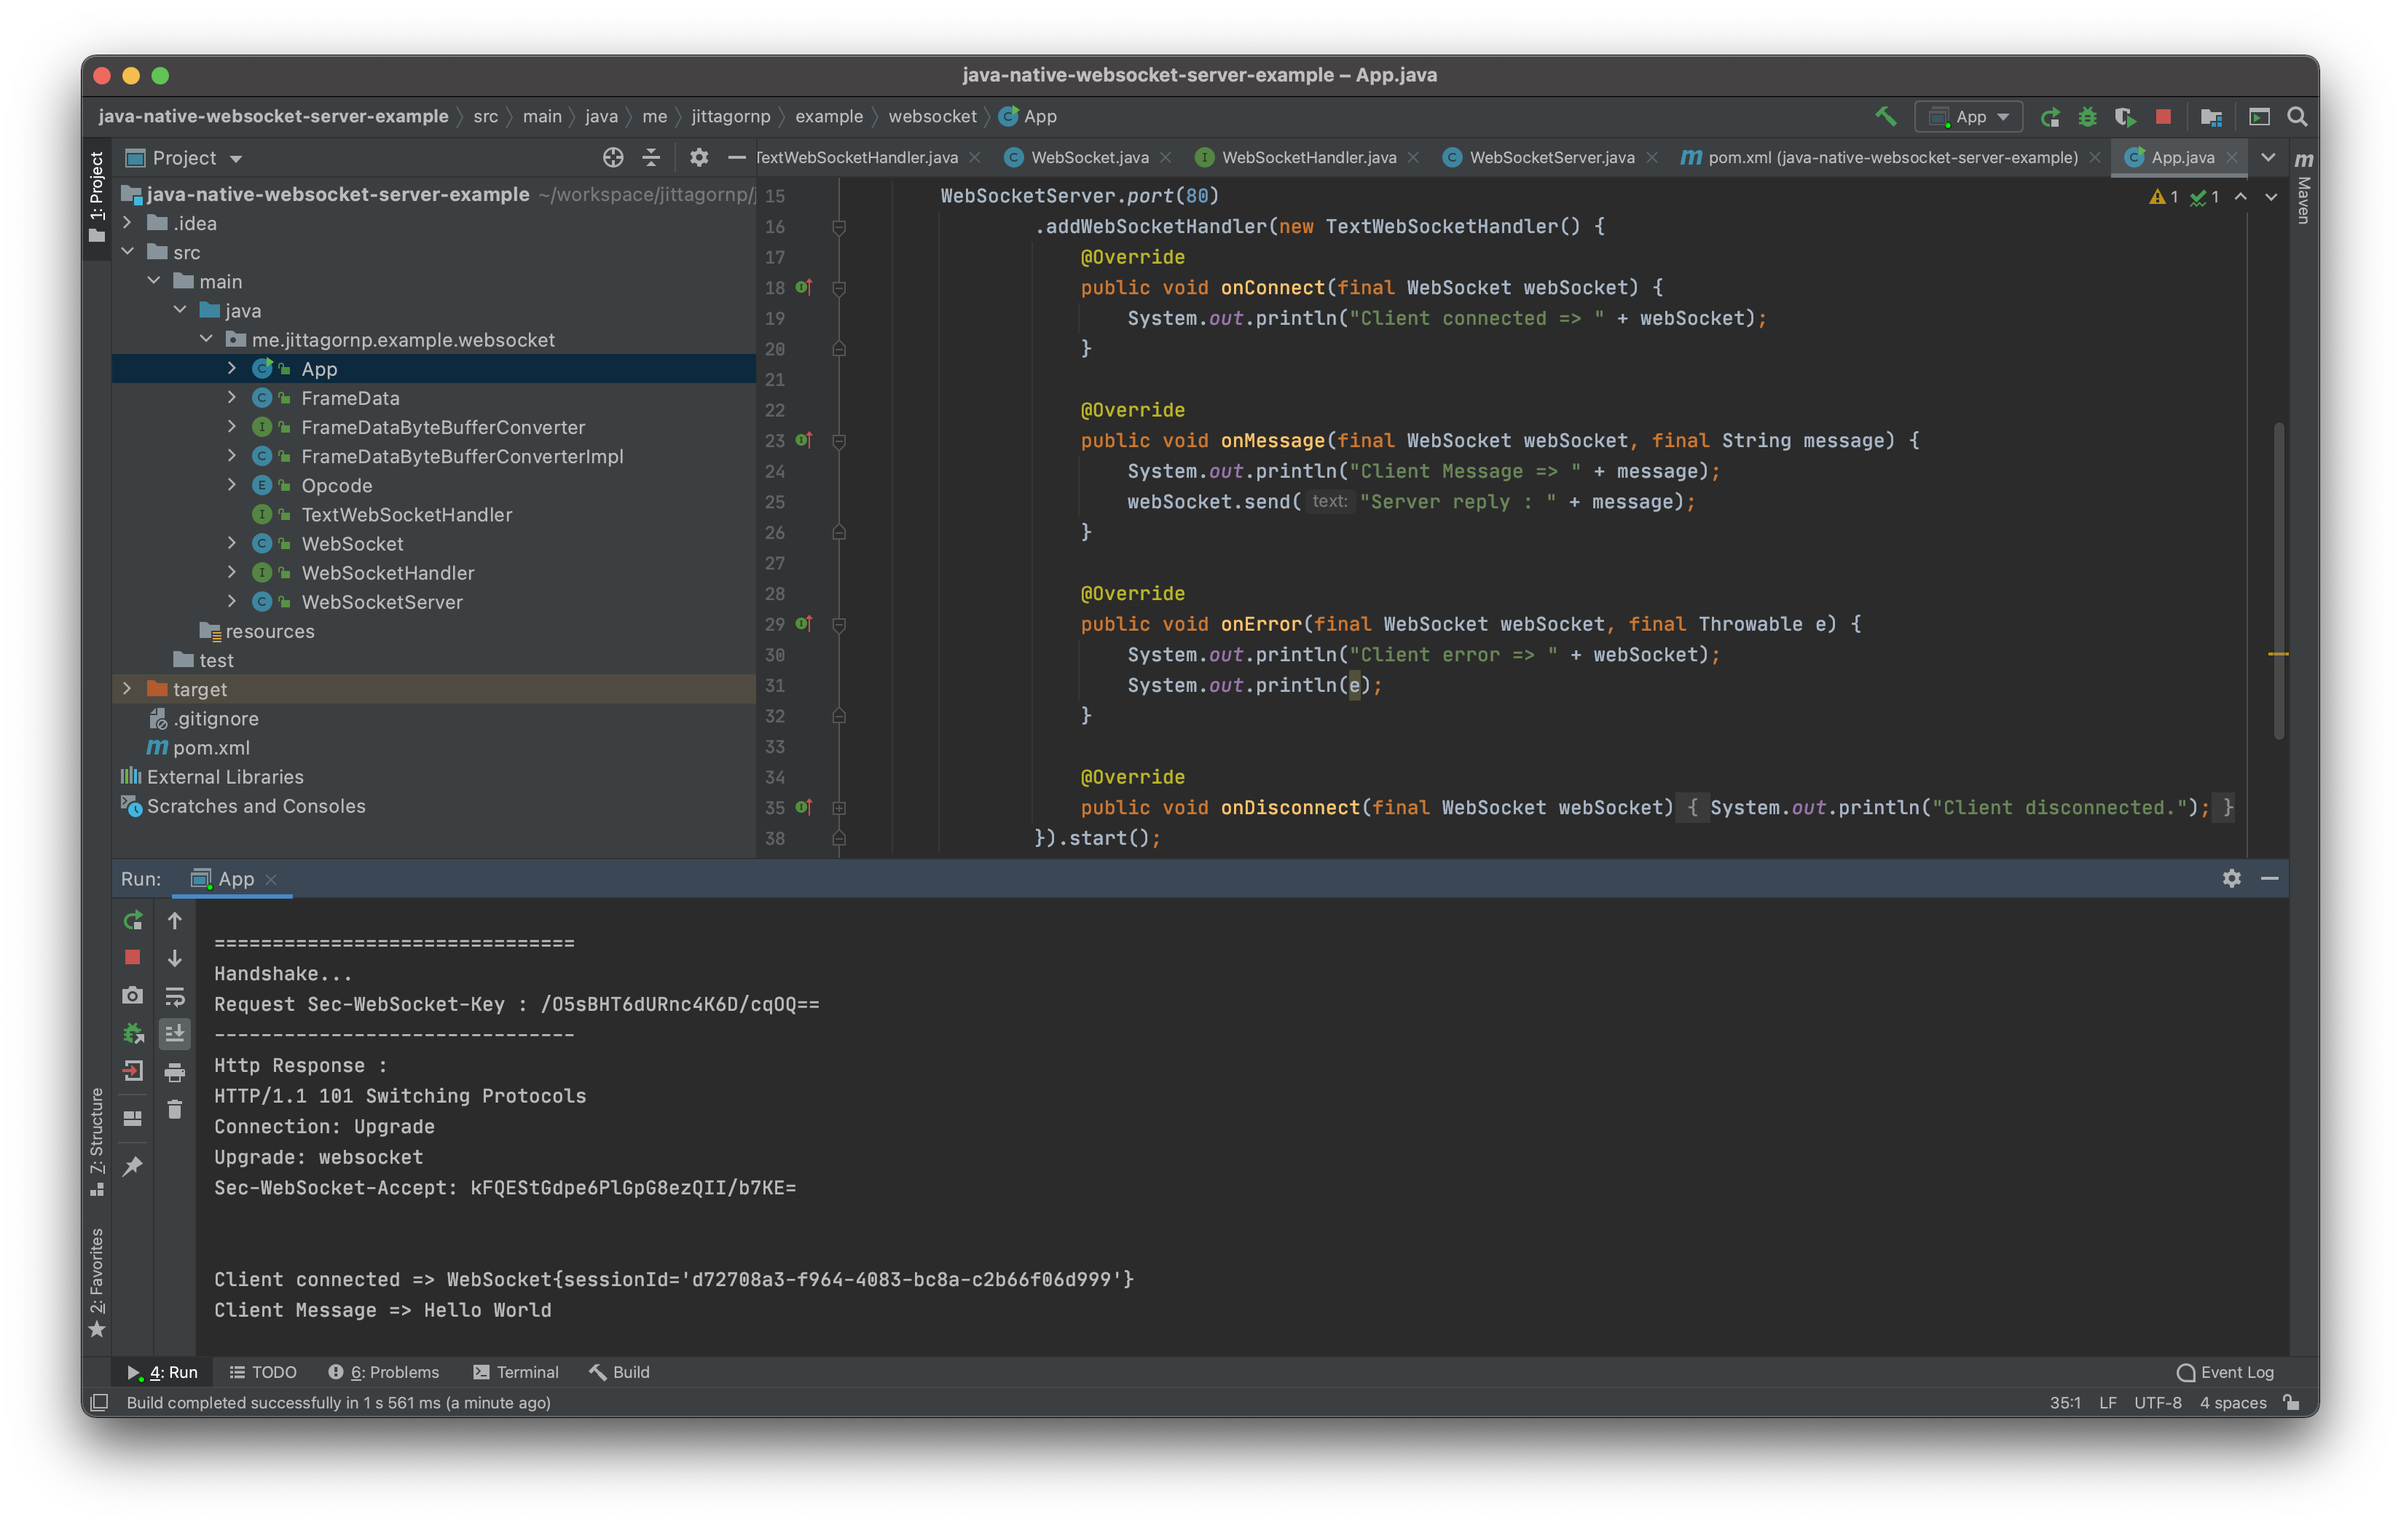
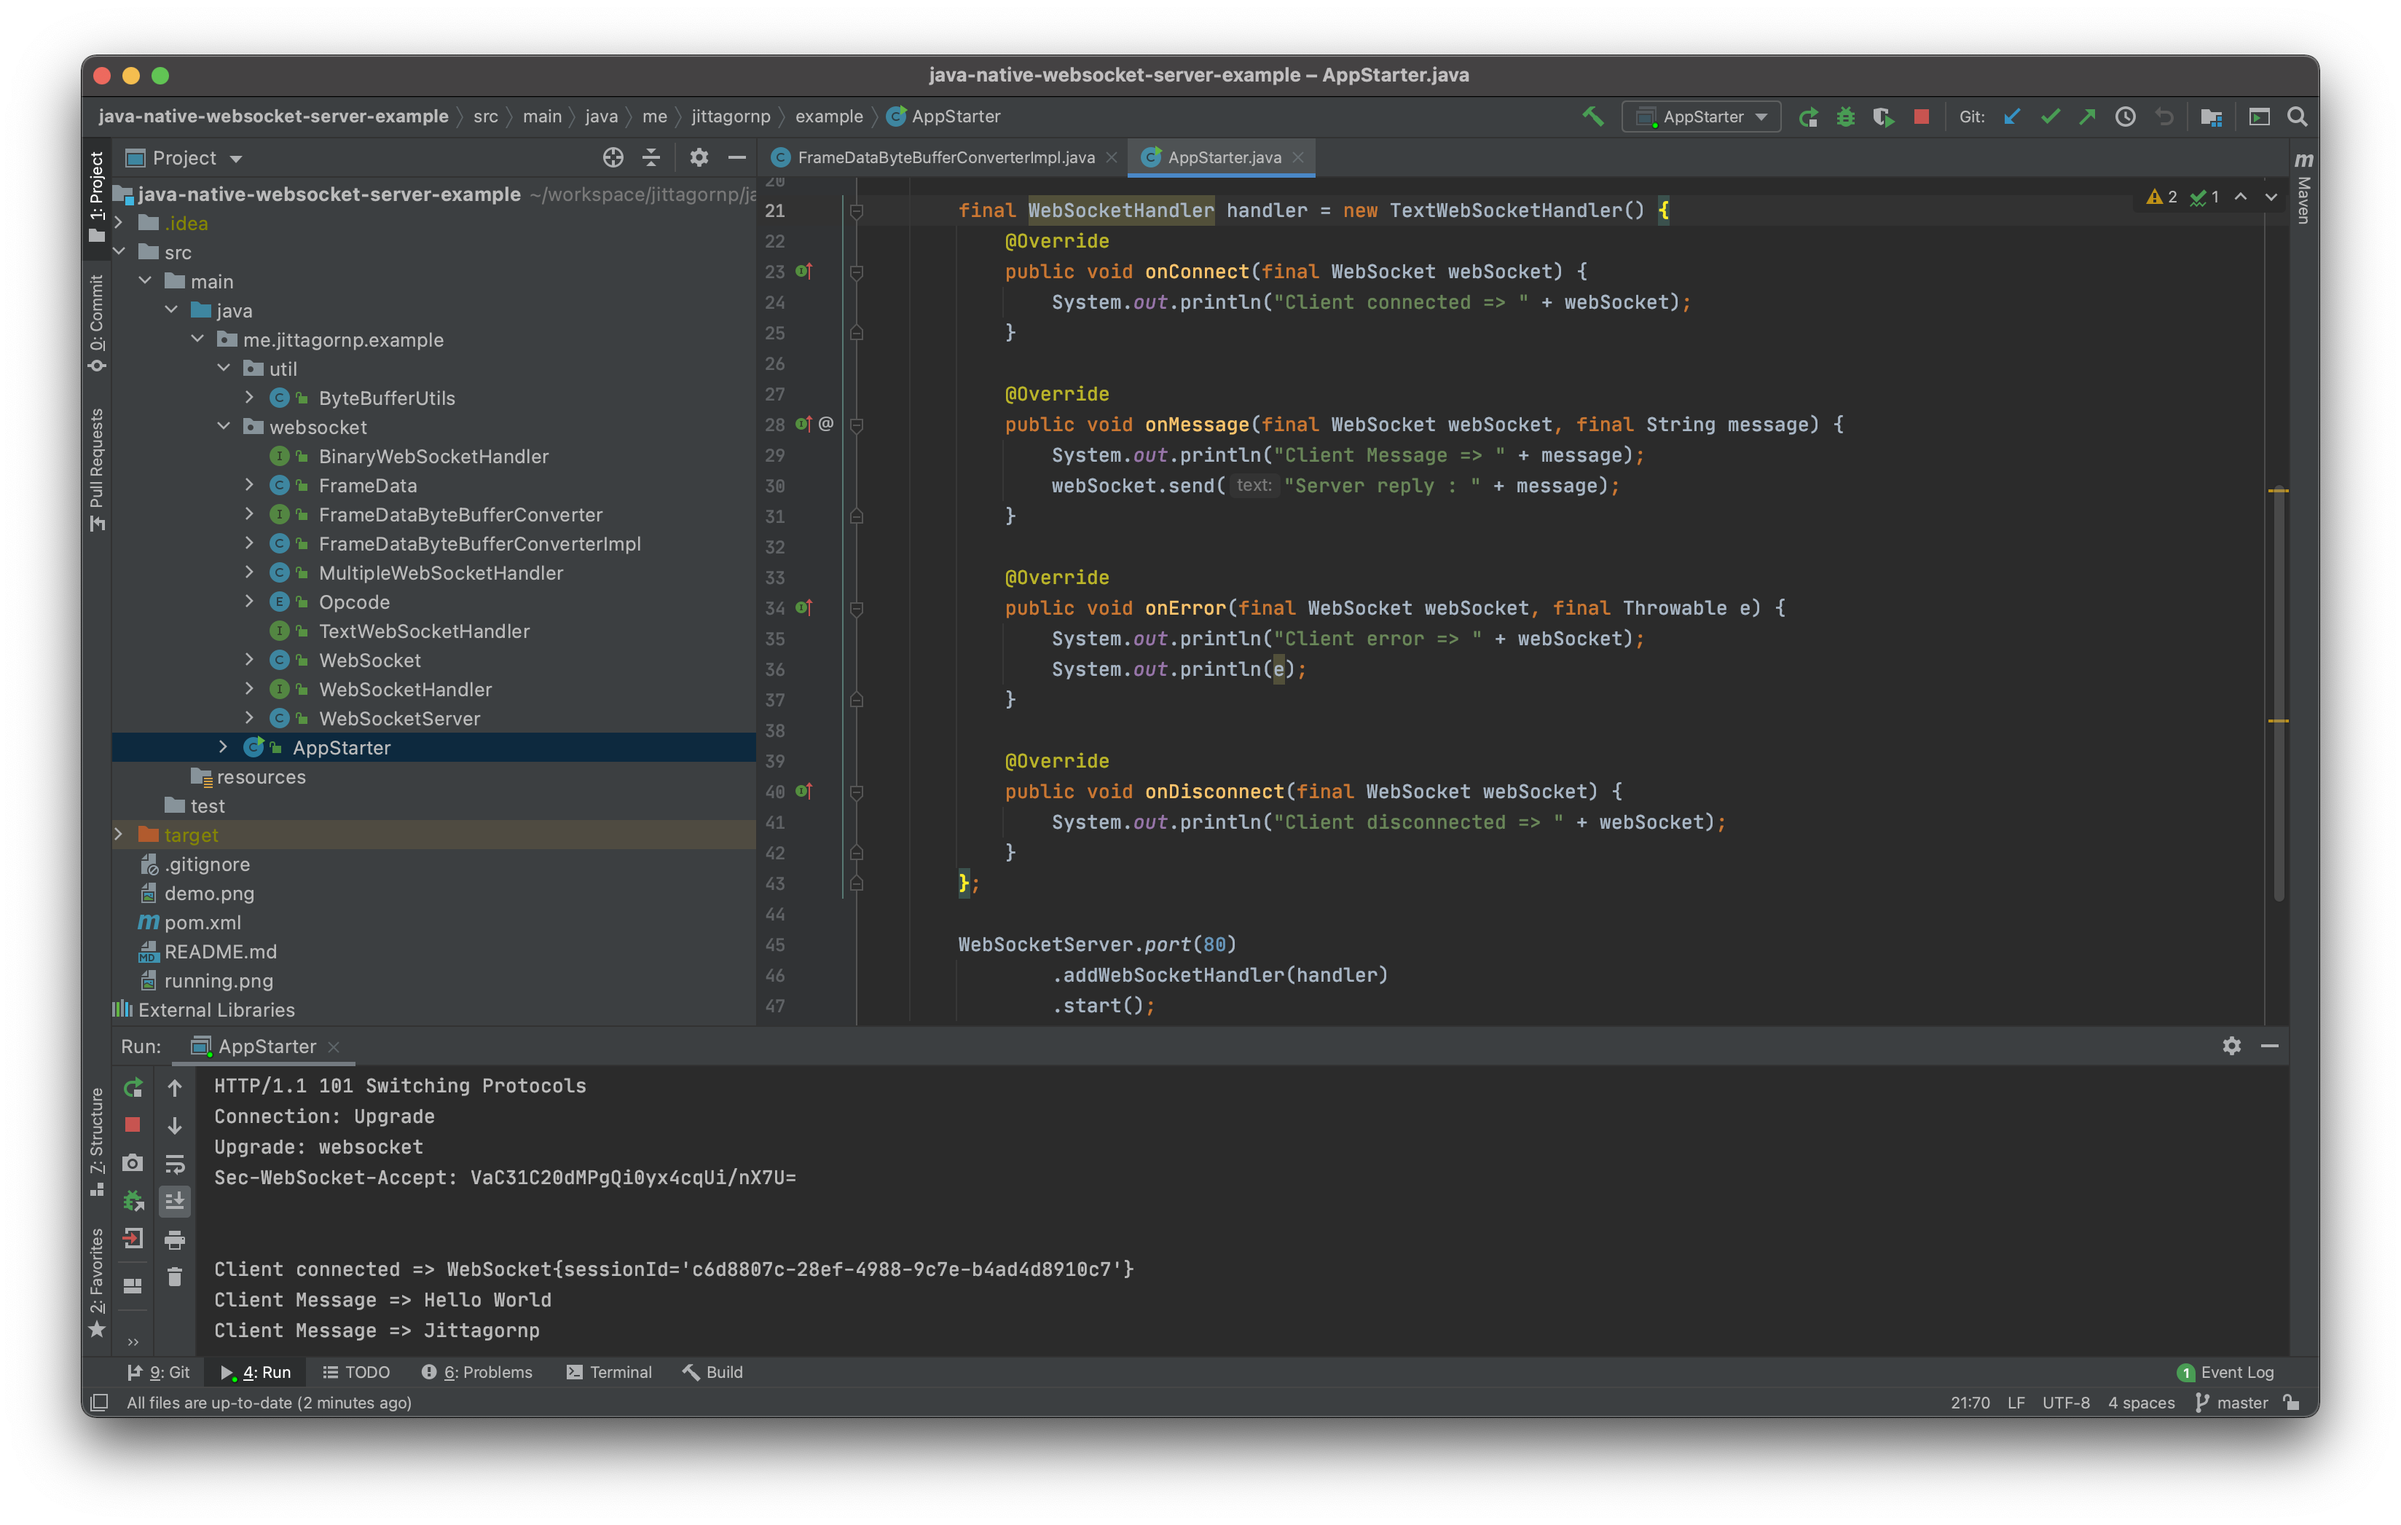
update image

diff --git a/README.md b/README.md
@@ -4,7 +4,7 @@
 
  # วิธีการใช้งาน 
  
- ให้ run ไฟล์ `App.java` เพื่อทดสอบดู
+ ให้ run ไฟล์ `AppStarter.java` เพื่อทดสอบดู
  
  ![](./demo.png)
  
